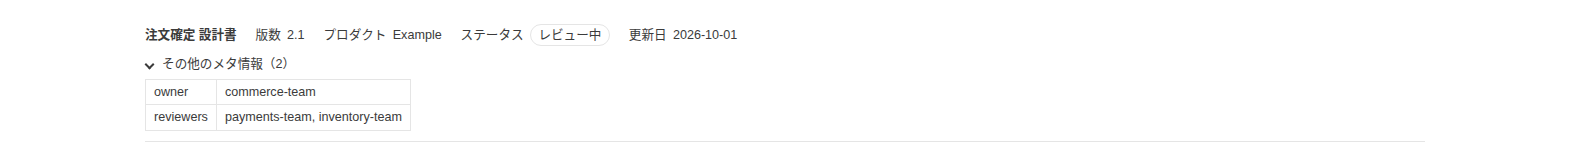
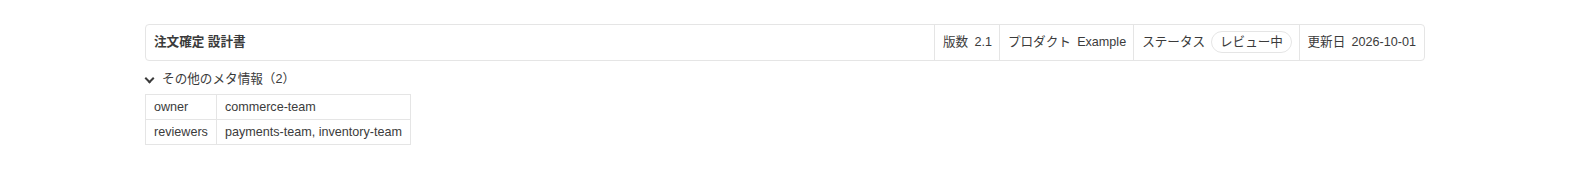
設計書のヘッダを枠で囲み、タイトルを左・メタ情報を右に寄せる
タイトルとメタ情報の行を枠で囲み、項目の間に縦線を入れる。タイトルが空き領域を取り、
メタ情報は右に寄せる。その他のメタ情報の折りたたみは枠の外（下）に出す。

diff --git a/webview/preview.css b/webview/preview.css
@@ -174,20 +174,37 @@ body.seqnotes-sticky-table-header thead th {
 }
 .seqnotes-front-matter td { white-space: pre-wrap; }
 
-/* Front matter with `type: design_doc`: the title and main entries in a row, then a table of the others */
-.seqnotes-doc-header {
-  font-size: 0.9em;
-  margin-bottom: 1.5em;
-  padding-bottom: 0.8em;
-  border-bottom: 1px solid var(--seqnotes-border);
+/* Front matter with `type: design_doc`: a box with the title and main entries in a row, then a table of the others */
+.seqnotes-doc-header { font-size: 0.9em; margin-bottom: 1.5em; }
+.seqnotes-doc-headline {
+  display: flex;
+  flex-wrap: wrap;
+  overflow: hidden;
+  border: 1px solid var(--seqnotes-border);
+  border-radius: 4px;
 }
-.seqnotes-doc-headline { display: flex; flex-wrap: wrap; align-items: baseline; gap: 0.3em 1.5em; }
-.seqnotes-doc-title { font-weight: 600; white-space: pre-wrap; }
-/* The entries flow in the row with the title */
-.seqnotes-doc-meta { display: contents; }
-.seqnotes-doc-meta > div { display: flex; align-items: baseline; gap: 0.5em; }
-.seqnotes-doc-meta dt { color: var(--seqnotes-muted); }
-.seqnotes-doc-meta dd { margin: 0; white-space: pre-wrap; }
+/*
+ * Each item is a cell of the box, with lines between them. The lines are hidden under the border of the box
+ * at its edges, and the line under the items separates the rows when they wrap.
+ */
+.seqnotes-doc-title, .seqnotes-doc-meta > div {
+  min-width: 0;
+  margin: 0 0 -1px -1px;
+  padding: 0.5em 8px;
+  border-left: 1px solid var(--seqnotes-border);
+  border-bottom: 1px solid var(--seqnotes-border);
+  overflow-wrap: anywhere;
+}
+/* The title takes the free space, so that the entries are at the right */
+.seqnotes-doc-title { flex: 1 1 auto; display: flex; align-items: center; font-weight: 600; white-space: pre-wrap; }
+/* Also at the right when they wrap onto a row of their own */
+.seqnotes-doc-meta { display: flex; flex-wrap: wrap; justify-content: flex-end; margin: 0 0 0 auto; }
+/* Without a title, from the left */
+.seqnotes-doc-meta:first-child { margin-left: 0; justify-content: flex-start; }
+/* Filling the rows when the entries wrap among themselves */
+.seqnotes-doc-meta > div { flex: 1 1 auto; display: flex; align-items: center; gap: 0.5em; }
+.seqnotes-doc-meta dt { color: var(--seqnotes-muted); white-space: nowrap; }
+.seqnotes-doc-meta dd { min-width: 0; margin: 0; white-space: pre-wrap; }
 .seqnotes-doc-status dd {
   padding: 0 0.6em;
   border: 1px solid var(--seqnotes-border);

diff --git a/README.ja.md b/README.ja.md
@@ -151,7 +151,7 @@ reviewers:
 
 ![ヘッダにタイトル・版数・プロダクト・ステータス・更新日、その下に開いたその他のメタ情報の表](images/screenshot-header.ja.png)
 
-- `title` を太字で表示し、続けて `version`（版数）・`product`（プロダクト）・`status`（ステータス）・`updated`（更新日）を横に並べます（この順で、書かれていないものは省きます）。
+- ヘッダは枠で囲み、左に `title` を太字で、右に `version`（版数）・`product`（プロダクト）・`status`（ステータス）・`updated`（更新日）を縦線で区切って並べます（この順で、書かれていないものは省きます）。
 - それ以外のキー（この例では `owner` と `reviewers`）は、ヘッダの下の折りたたみ（既定で閉じた状態）に表で表示します。`type` 自体は表示しません。
 
 ## AI で設計書を書く

diff --git a/README.md b/README.md
@@ -153,7 +153,7 @@ reviewers:
 
 ![The title, version, product, status and updated date in the header, and the other metadata in a table opened below it](images/screenshot-header.png)
 
-- `title` is shown in bold, followed by `version`, `product`, `status` and `updated` in a row (in this order, leaving out those not written).
+- The header is a box with `title` in bold on the left, and `version`, `product`, `status` and `updated` on the right (in this order, leaving out those not written), separated by lines.
 - The other entries (`owner` and `reviewers` here) are shown in a table folded below the header (closed by default). `type` itself is not shown.
 
 ## Writing with AI

diff --git a/CHANGELOG.md b/CHANGELOG.md
@@ -2,6 +2,7 @@
 
 ## Unreleased
 
+- The header of a design document (`type: design_doc`) is a box with the title on the left and the main entries on the right, separated by lines.
 - The preview can be shown in light or dark regardless of VS Code's color theme. The button in the preview's title bar switches it to the other of light and dark, and pressing it again makes it follow VS Code again. The choice is saved in `mdDesignDoc.theme` (`auto` / `light` / `dark`).
 
 ## 0.4.0
